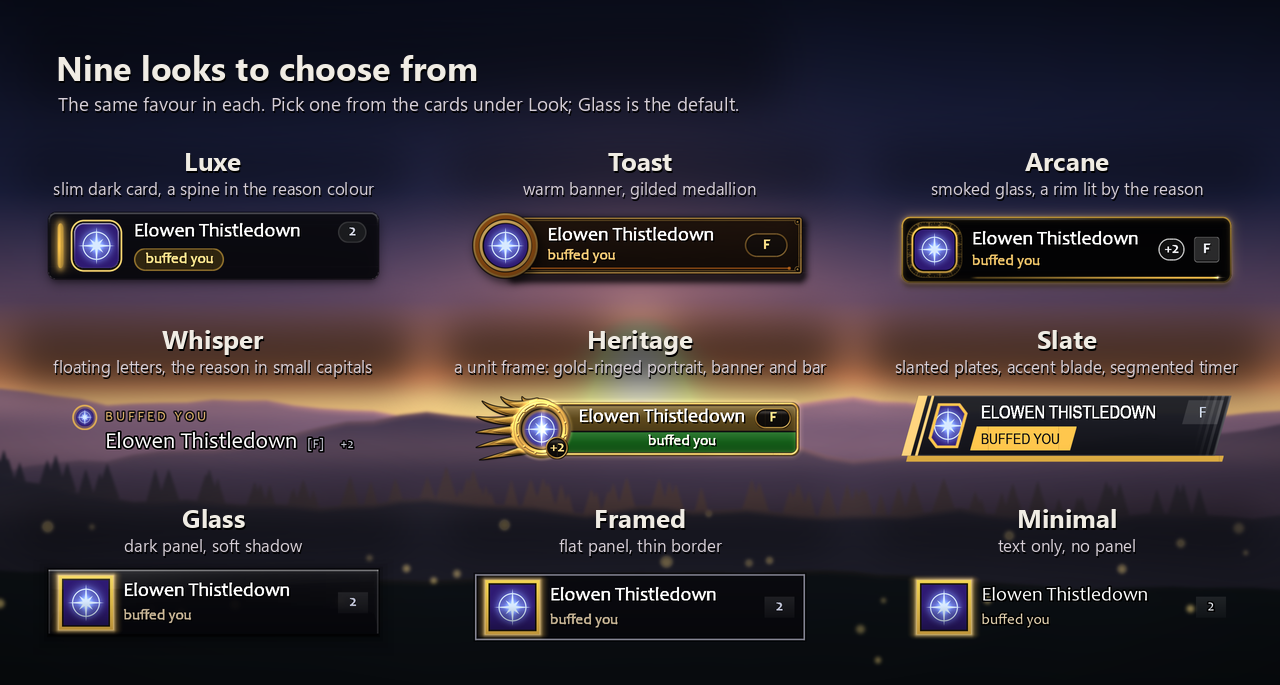
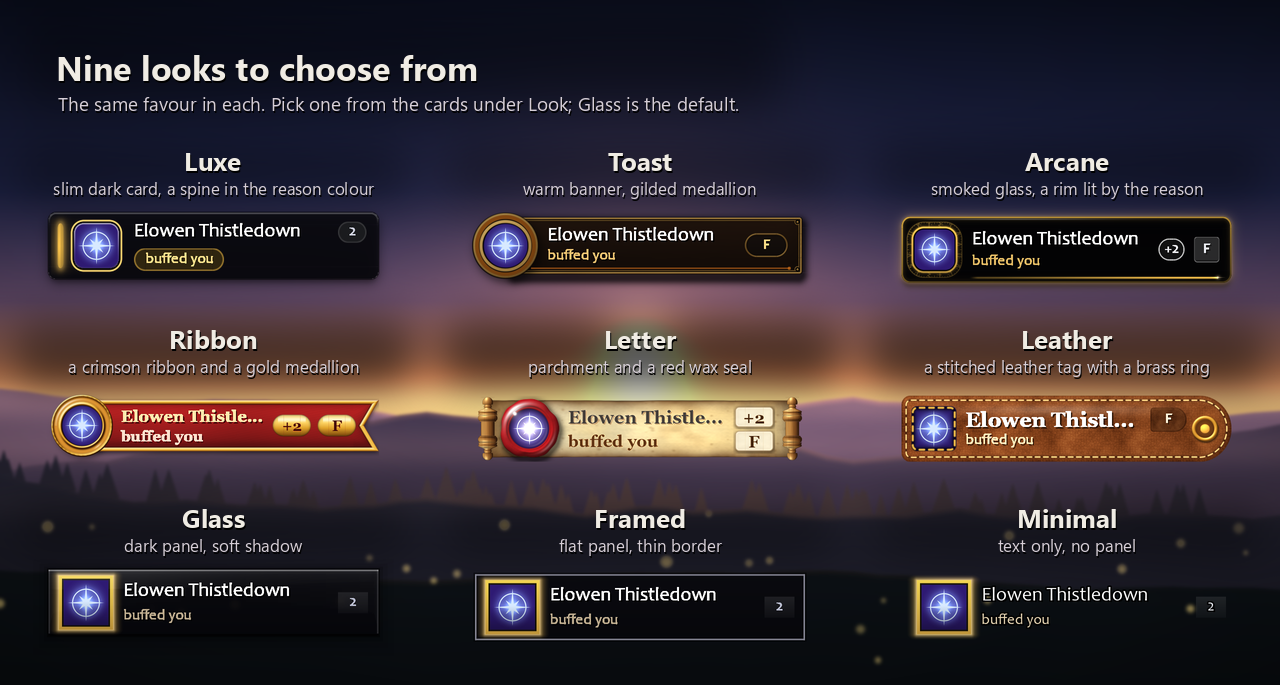
Notes for Ribbon, Letter and Leather; the looks picture and the picker's pictures

diff --git a/CHANGELOG.md b/CHANGELOG.md
@@ -2,17 +2,17 @@
 
 ## Unreleased
 
-- **Three new looks.** *Whisper*: no box at all, just type: the name large
-  on the world, the reason above it in small spaced capitals led by a round
-  dot, outlined so it reads over snow as over a dungeon; a landing blooms the
-  name and draws a fine line under it. *Heritage*: a classic unit frame, the
-  spell in a round gold-ringed portrait with a fan of gold blades, the name on
-  a banner in the reason's colour and a bar beneath that runs down with the
-  favour's time; a gold flash when your buff lands, the portrait red when the
-  game refuses it, the red glow of a fight. *Slate*: slanted
-  plates, a bold blade in the reason's colour and the name in capitals, with a
-  segmented bar along its foot that counts the cooldown down in place of the
-  sweep and a white-to-green wipe when your buff lands.
+- **Three new looks, each a thing you could hold.** *Ribbon*: a crimson
+  cloth ribbon with swallowtail ends and gold rails, the spell in a gold
+  medallion with a ring of enamel in the reason's colour; a gold shine runs
+  along the cloth when your buff lands. *Letter*: warm parchment between two
+  turned wooden rods, the spell pressed into a glossy wax seal whose colour is
+  the reason, the name in dark ink; the scroll unrolls as somebody arrives,
+  the seal flashes gold when your buff lands and cracks when the game refuses
+  it, and the list is written further down the page. *Leather*: a stitched
+  leather tag with a brass eyelet, the thread round the icon dyed in the
+  reason's colour; the stitches light up one after another when your buff
+  lands, and the list hangs as smaller tags.
 - **Pick a look from cards.** The Look tab opens on a gallery: every look as a
   picture, its name and a line about it. Click one and the prompt changes at
   once. The settings dialog the game draws still has the dropdown.
